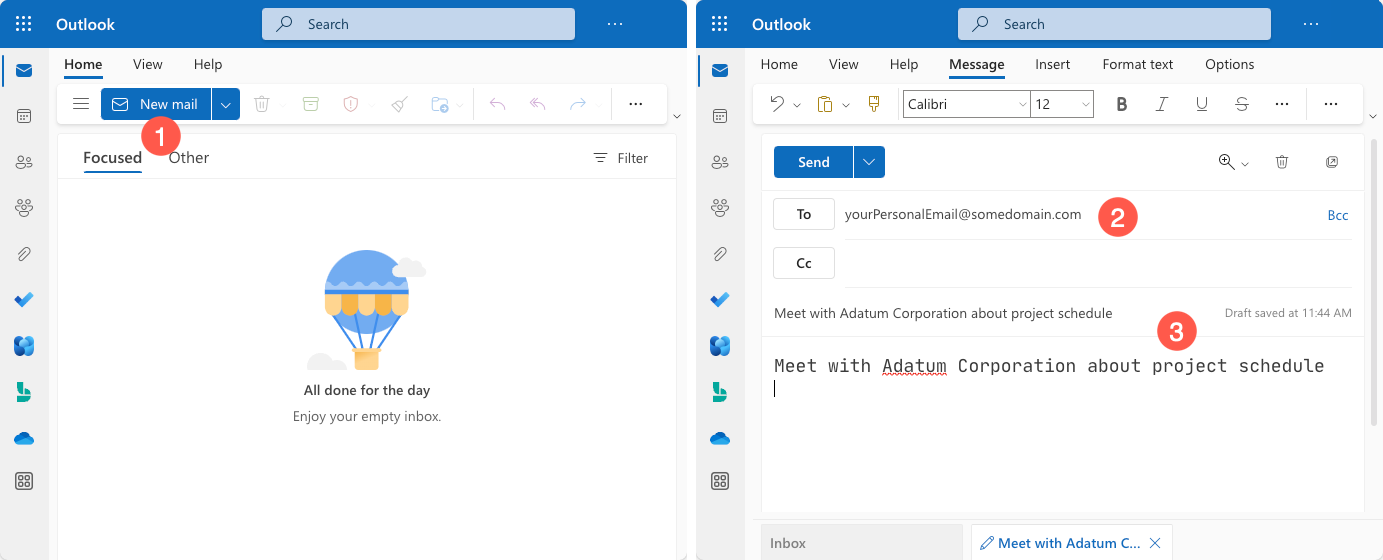
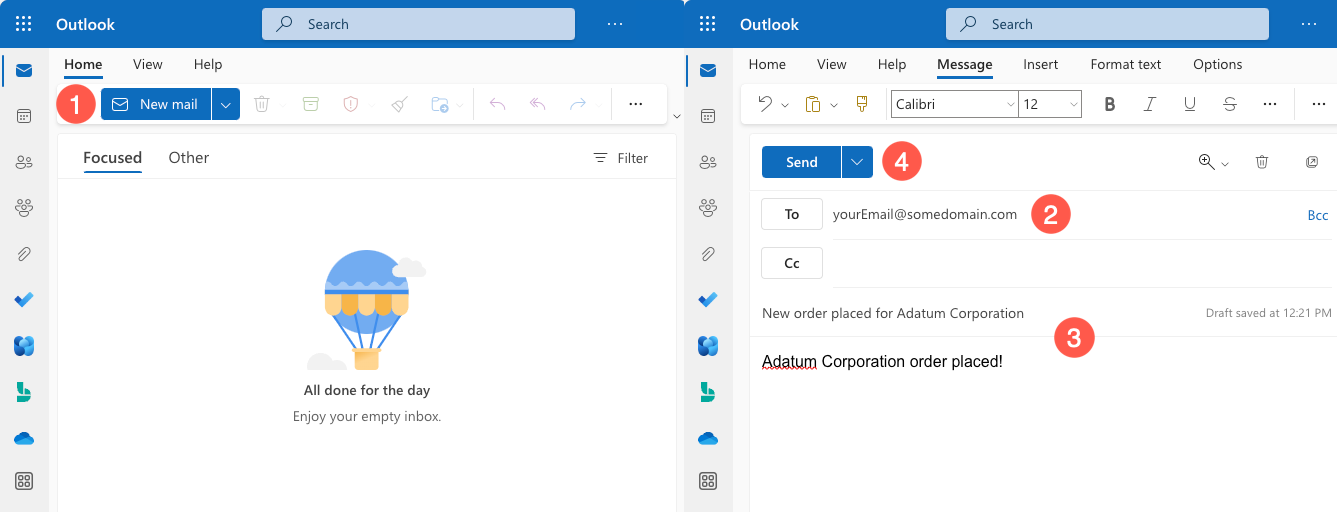
Update image

diff --git a/docs/dev/tutorials/openai-msgraph-acs/includes/10-OrgData-Retrieving-Org-Data-Microsoft-Graph.md b/docs/dev/tutorials/openai-msgraph-acs/includes/10-OrgData-Retrieving-Org-Data-Microsoft-Graph.md
@@ -69,8 +69,7 @@ In this exercise, you will:
         - Visit https://outlook.com and login using your Microsoft 365 Developer tenant credentials.
         - Select **New mail**.
         - Enter your personal email address in the **To** field.
-        - Enter *New order placed for Adatum Corporation* for the subject.
-        - Enter *Please review the latest order.* for the body.
+        - Enter *New order placed for Adatum Corporation* for the subject and anything you'd like for the body.
         - Select **Send**.
 
         :::image type="content" source="../media/add-email-outlook.png" alt-text="Adding an Email in Outlook":::
@@ -89,12 +88,12 @@ In this exercise, you will:
 1. Open *graph.service.ts* and take a moment to look through the included functions. The full path to the file is *openai-msgraph-acs/client/src/app/core/graph.service.ts*. Key functions include:
 
     - `searchFiles()` - Searches files in OneDrive for Business.
-    - `searchChats()` - Searches chat messages in Microsoft Teams.
+    - `searchChatMessages()` - Searches chat messages in Microsoft Teams.
     - `searchEmailMessages()` - Searches email messages.
     - `searchAgendaEvents()` - Searches calendar events.
     - `sendTeamsChat()` - Sends a chat message to a Microsoft Teams channel.
 
-1. Let's break down the functionality provided by the `searchFiles()` function.
+1. Let's start by analyzing the functionality provided by the `searchFiles()` function.
 
     - A `query` parameter is passed to the function. This is the search term passed by the user as they select **View Related Content** for a row in the datagrid.
 
@@ -160,17 +159,17 @@ In this exercise, you will:
     }
     ```
 
-1. Go back to *graph.service.ts* and locate the `searchChats()` function . You'll see that it's similar to `searchFiles()`. 
+1. Go back to *graph.service.ts* and locate the `searchChatMessages()` function . You'll see that it's similar to `searchFiles()`. 
 
     - It calls Microsoft Graph's `/search/query` API and converts the results into an array of objects that have information about the `teamId`, `channelId`, and `messageId` that match the search term.
     - To retrieve the channel messages, a call is made to  `/teams/${chat.teamId}/channels/${chat.channelId}/messages/${chat.messageId}` and the `teamId`, `channelId`, and `messageId` are passed. 
     - Additional filtering tasks are performed and the resulting messages are returned to the caller.
 
-1. Open the *chats.component.ts* file and locate the `search()` function. The full path to the file is *openai-msgraph-acs/client/src/app/chats/chats.component.ts*. The `search()` function calls `searchChats()` in *graph.service.ts* and passes the `query` parameter to it. The results of the search are then assigned to the `data` property of the component. The *chats.component.html* file then uses the `data` property to display the search results.
+1. Open the *chats.component.ts* file and locate the `search()` function. The full path to the file is *openai-msgraph-acs/client/src/app/chats/chats.component.ts*. The `search()` function calls `searchChatMessages()` in *graph.service.ts* and passes the `query` parameter to it. The results of the search are then assigned to the `data` property of the component. The *chats.component.html* file then uses the `data` property to display the search results.
 
     ```typescript
     override async search(query: string) {
-        this.data = await this.graphService.searchChats(query);
+        this.data = await this.graphService.searchChatMessages(query);
     }
     ```
 
